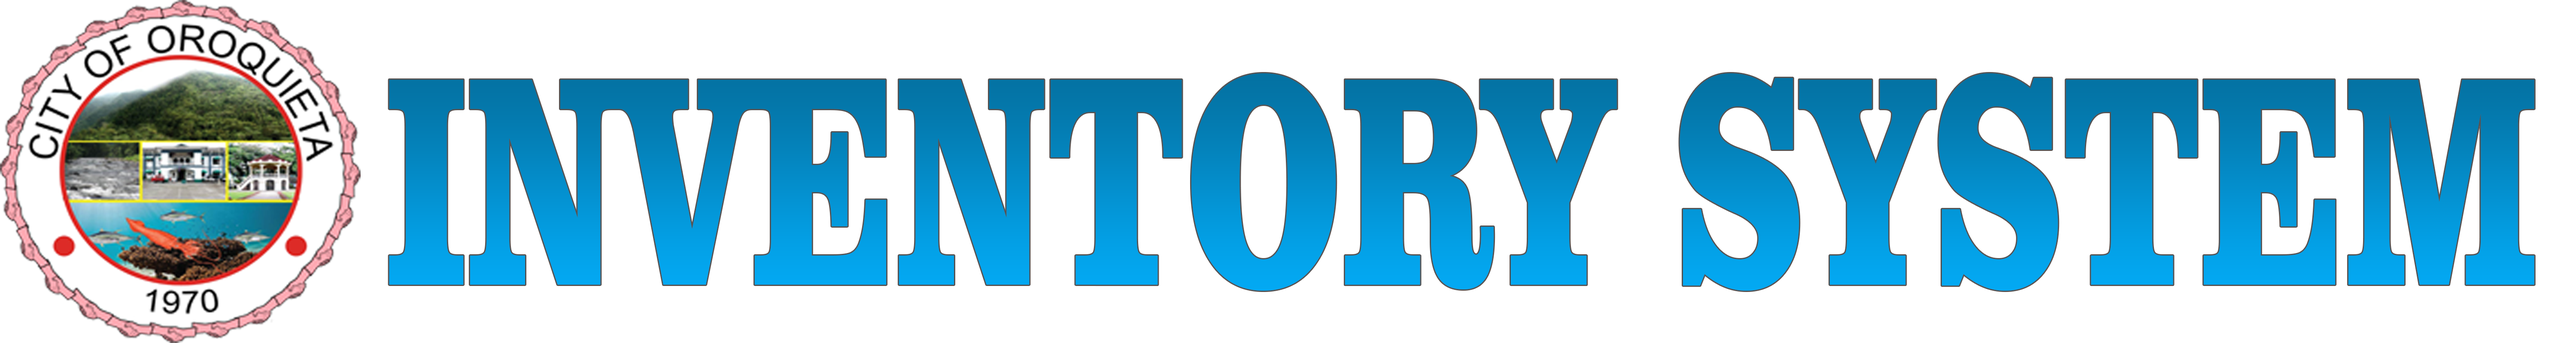
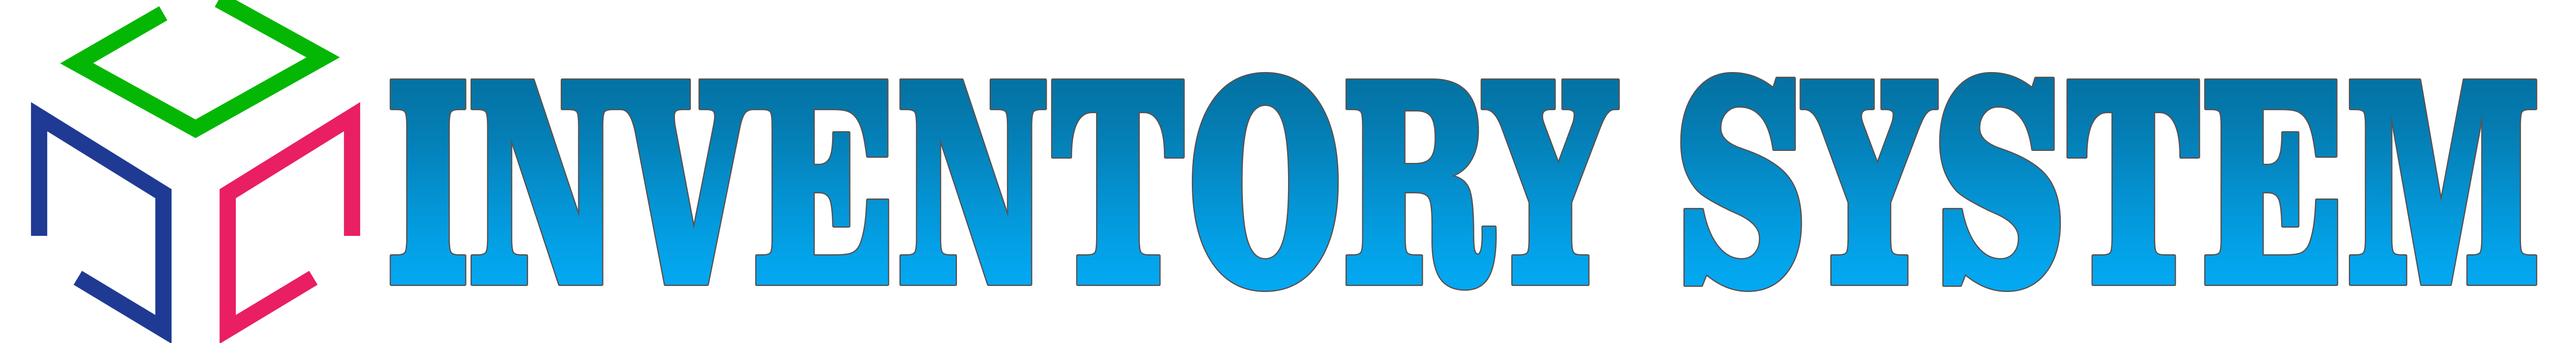
Update Readme

diff --git a/assets/css/majestic-style.css b/assets/css/majestic-style.css
@@ -20974,7 +20974,7 @@ dl li {
 /* === Landing screens === */
 /* Auth */
 .auth .login-half-bg {
-  background: url("http://localhost/city_inventory/assets/images/oroq.png");
+  background: url("http://localhost/inventory/assets/images/is.png");
   background-size: cover;
   margin-top: -30px;
   padding-bottom: -100px;

diff --git a/application/views/view_delivery_item.php b/application/views/view_delivery_item.php
@@ -75,12 +75,13 @@
 							<div class="col-10">
 								<div class="row mb-4 mt-3">
 									<div class="col-4 text-right pr-0">
-										<img src="<?php echo base_url() ?>images/is_icon.png" alt="Logo" width="80" height="80">
+										<!-- <img src="<?php echo base_url() ?>images/is_icon.png" alt="Logo" width="80" height="80"> -->
 									</div>
 									<div class="col-4 mt-3">
 										<div class="text-center pl-0">
-											<h5>Office of the City Mayor</h5> 
-											<h5>Oroquieta City</h5>
+											<h5 class="font-weight-bold" style="color:darkblue;">DELIVERY ITEMS</h5>
+											<!-- <h5>Office of the City Mayor</h5> 
+											<h5>Oroquieta City</h5> -->
 										</div>
 									</div>
 									<div class="col-3"></div>
@@ -114,7 +115,7 @@
 											<td><?php echo $i; ?></td>
 											<td><?php echo $delivery_item['description'];?></td>
 											<td><?php echo $delivery_item['size'];?></td> 
-											<td><?php echo $delivery_item['quantity'];?></td>
+											<td><?php echo $delivery_item['qty'];?></td>
 											<td><?php echo $delivery_item['unit'];?></td> 
 										</tr>
 										<?php $i++; } } ?>

diff --git a/application/models/Delivery_model.php b/application/models/Delivery_model.php
@@ -60,9 +60,10 @@ class Delivery_model extends CI_Model {
     return $this->db->update('item', $data); 
   }
 
+
   public function get_delivery_item($id)
   {
-    $this->db->select('*');  
+    $this->db->select('*, delivery_item.quantity as qty');  
     $this->db->from('delivery_item, item'); 
     $this->db->where('delivery_item.item_no = item.item_no');
     $this->db->where('delivery_item.delivery_no', $id);
@@ -82,7 +83,7 @@ class Delivery_model extends CI_Model {
   public function view_delivery_item($data)
   {  
     $this->db->from('delivery_item, item');
-    $this->db->select('item.description, item.size, item.quantity, item.unit');  
+    $this->db->select('item.description, item.size, item.unit, delivery_item.quantity as qty');  
     $this->db->where('delivery_item.item_no = item.item_no'); 
     $this->db->where('delivery_no', $data); 
     return $this->db->get()->result_array();

diff --git a/application/views/view_request_item.php b/application/views/view_request_item.php
@@ -75,13 +75,13 @@
 							<div class="col-10">
 								<div class="row mb-4 mt-3">
 									<div class="col-4 text-right pr-0">
-										<img src="<?php echo base_url() ?>images/is_icon.png" alt="Logo" width="80" height="80">
+										<!-- <img src="<?php echo base_url() ?>images/is_icon.png" alt="Logo" width="80" height="80"> -->
 									</div>
 									<div class="col-4 mt-3">
 										<div class="text-center pl-0">
-											<h5>Office of the City Mayor</h5>
+											<!-- <h5>Office of the City Mayor</h5> -->
 											<h5 class="font-weight-bold" style="color:darkblue;">SUPPLIES REQUEST SLIP</h5>
-											<h5>Oroquieta City</h5>
+											<!-- <h5>Oroquieta City</h5> -->
 										</div>
 									</div>
 									<div class="col-3"></div>

diff --git a/application/views/index.php b/application/views/index.php
@@ -52,7 +52,7 @@
 									<p class="text-light mt-1 m-0">Users</p>
 								</div>
 								<div class="card-right float-right text-right">
-									<i class="icon   icon-lg animated wobble     fas fa-user"></i>
+									<i class="icon icon-lg animated wobble fas fa-user"></i>
 								</div>
 							</div>
 						</div>
@@ -112,7 +112,7 @@
 					<div class="col-lg-12"> 
 						<div class="card">
 							<div class="card-body text-center animated rubberBand  ">
-								<img width="500px;" src="<?php echo base_url() ?>assets/images/oroq1.png" alt="Dashboard Picture" sizes="" srcset="">
+								<img width="500px;" src="<?php echo base_url() ?>assets/images/is.png" alt="Dashboard Picture" sizes="" srcset="">
 							</div>
 						</div>
 					</div>

diff --git a/application/views/view_release_item.php b/application/views/view_release_item.php
@@ -76,13 +76,13 @@
 
 								<div class="row mb-4 mt-3">
 									<div class="col-4 text-right pr-0">
-										<img src="<?php echo base_url() ?>images/is_icon.png" alt="Logo" width="80" height="80">
+										<!-- <img src="<?php echo base_url() ?>images/is_icon.png" alt="Logo" width="80" height="80"> -->
 									</div>
 									<div class="col-4 mt-3">
 										<div class="text-center pl-0">
-											<h5>Office of the City Mayor</h5>
+											<!-- <h5>Office of the City Mayor</h5> -->
 											<h5 class="font-weight-bold" style="color:darkblue;">SUPPLIES REQUEST SLIP</h5>
-											<h5>Oroquieta City</h5>
+											<!-- <h5>Oroquieta City</h5> -->
 										</div>
 									</div>
 									<div class="col-3"></div>

diff --git a/application/views/edit_delivery_item.php b/application/views/edit_delivery_item.php
@@ -81,7 +81,7 @@
 						<td>
 							<input type="number" class="stock_quantity form-control" name="limit_quantity[]" value='.$dev_items['limit_quantity'].'>
 						</td>
-						<td><input min="1" type="number" class="form-control" name="quantity[]" value='.$dev_items['quantity'].'></td>';
+						<td><input min="1" type="number" class="form-control" name="quantity[]" value='.$dev_items['qty'].'></td>';
 
                     echo  '<td>
                           <select  data-row="row_id_'.$count.'"  class="form-control cat" name="category_id[]">

diff --git a/application/views/template/footer.php b/application/views/template/footer.php
@@ -2,10 +2,7 @@
 			<div class="footer-inner bg-white">
 				<div class="row">
 					<div class="col-sm-6">
-						Copyright &copy; <?php echo date('Y');?> City of Good Life - Oroquieta City
-					</div>
-					<div class="col-sm-6 text-right">
-						Designed by <a target="blank" href="https://oroquieta.ustp.edu.ph">USTP IT OJT's Batch 2020</a>
+						Copyright &copy; <?php echo date('Y');?>
 					</div>
 				</div>
 			</div>

diff --git a/application/views/template/meta.php b/application/views/template/meta.php
@@ -4,4 +4,4 @@
 	<title><?php echo $page_title; ?></title>
 	<meta name="description" content="Ela Admin - HTML5 Admin Template">
 	<meta name="viewport" content="width=device-width, initial-scale=1">
-	<link rel="shortcut icon" href='<?php echo base_url()?>images/is_icon.png'>
+	<link rel="shortcut icon" href='<?php echo base_url()?>images/icon.png'>

diff --git a/application/config/config.php b/application/config/config.php
@@ -22,7 +22,7 @@ defined('BASEPATH') OR exit('No direct script access allowed');
 | a PHP script and you can easily do that on your own.
 |
 */
-$config['base_url'] = 'http://localhost/city_inventory/';
+$config['base_url'] = 'http://localhost/inventory/';
 
 /*
 |--------------------------------------------------------------------------

diff --git a/application/views/login.php b/application/views/login.php
@@ -17,7 +17,7 @@
 	<!-- inject:css -->
 	<link rel="stylesheet" href="<?php echo base_url() ?>assets/css/majestic-style.css">
 	<!-- endinject -->
-	<link rel="shortcut icon" href='<?php echo base_url()?>images/is_icon.png'>
+	<link rel="shortcut icon" href='<?php echo base_url()?>images/icon.png'>
 </head>
 
 <body>

diff --git a/application/controllers/Delivery.php b/application/controllers/Delivery.php
@@ -47,6 +47,7 @@ class Delivery extends CI_Controller {
 
       $result = $this->delivery_model->delete_delivery($id);
 
+
       if($result){
 
         for ($i=0; $i < count($items['item']) ; $i++) {
